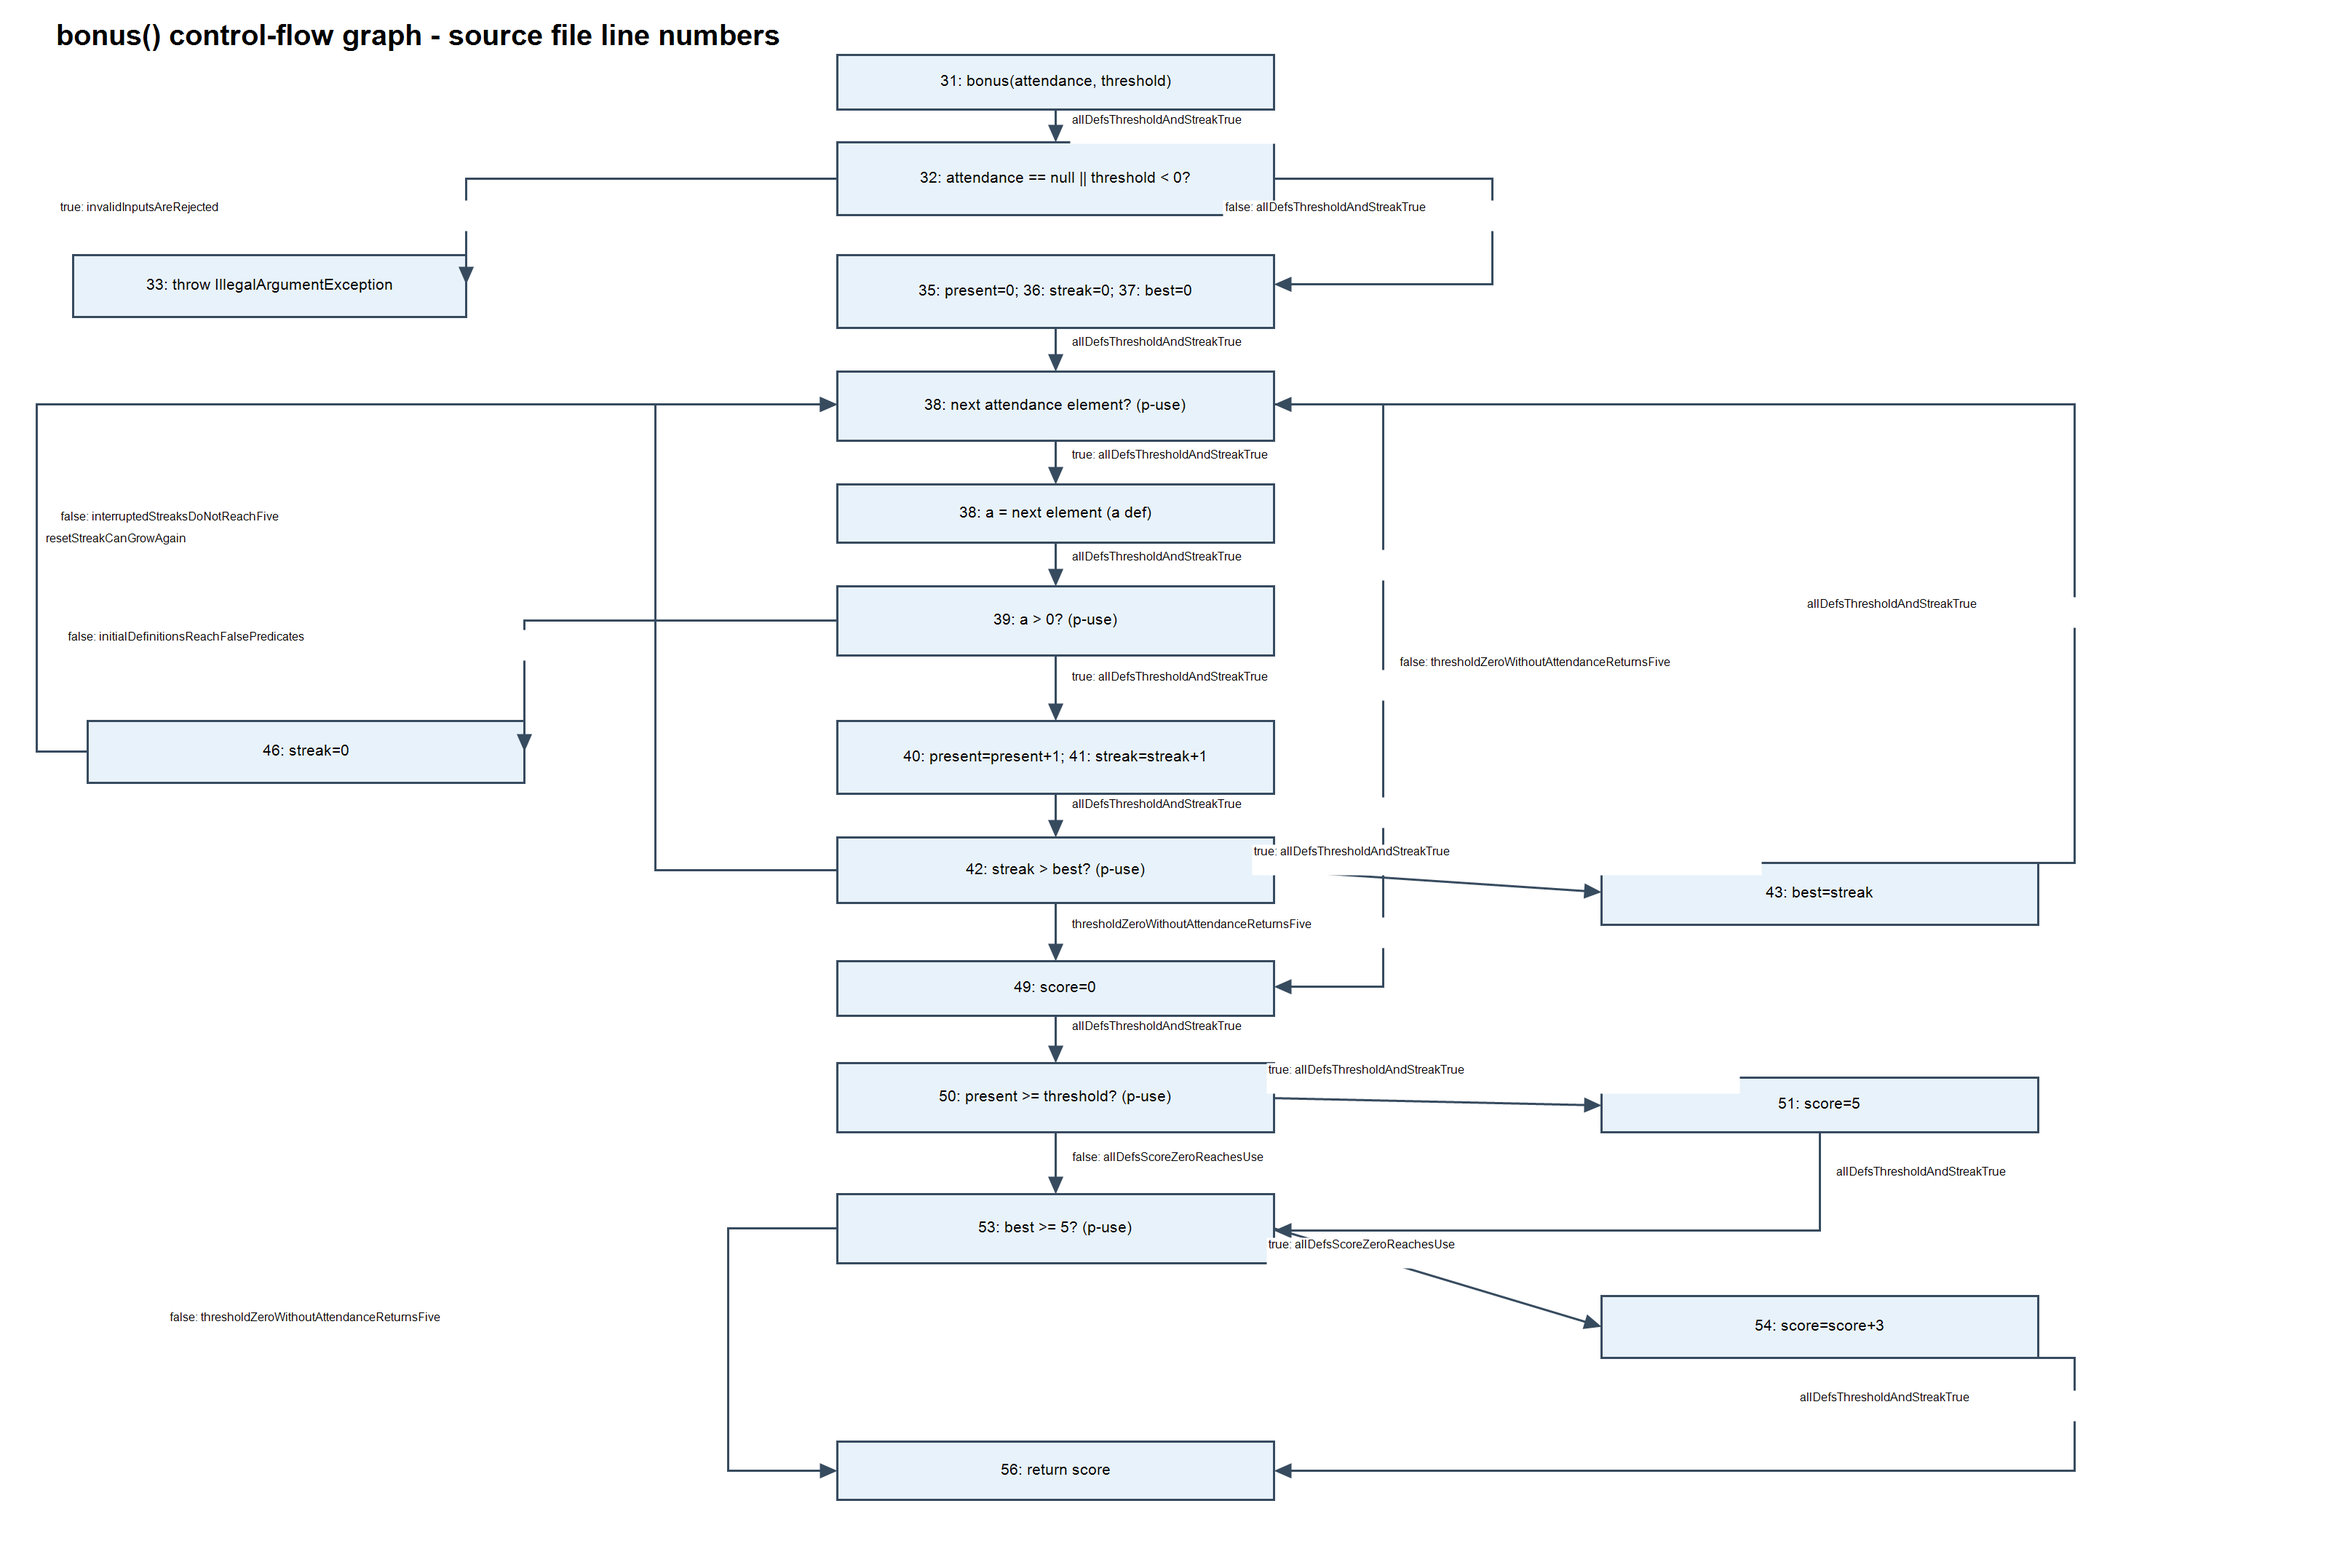
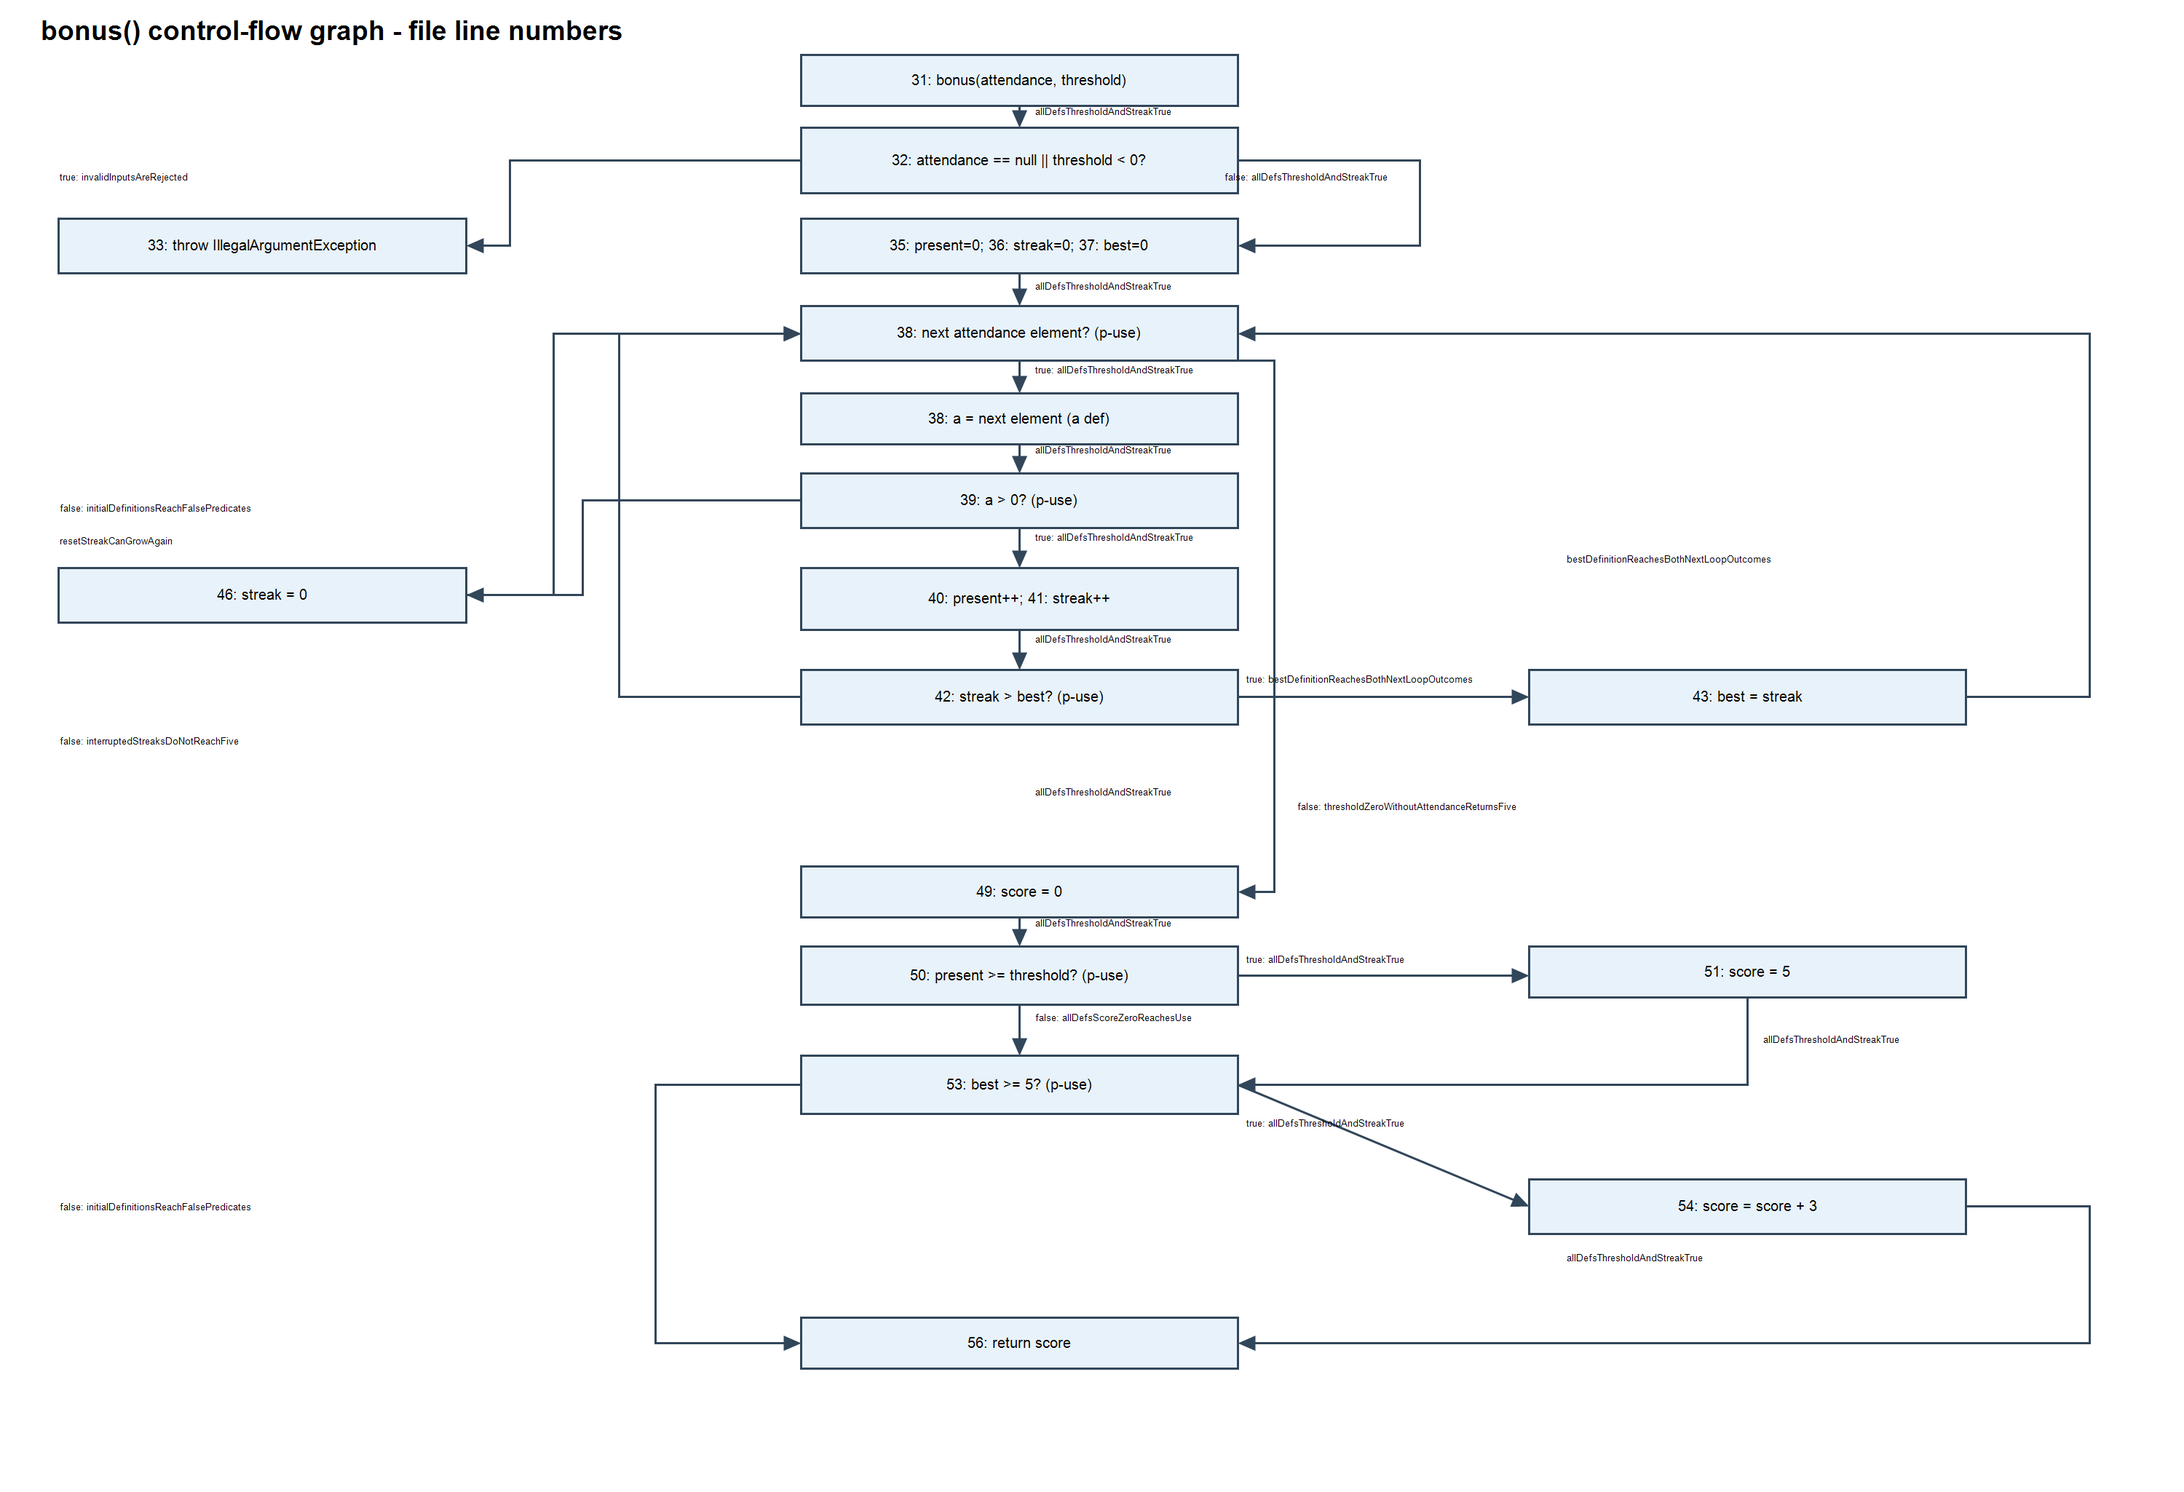
Complete DU pairs and identify student report

diff --git a/src/test/java/mn/edu/must/sqat/BonusTest.java b/src/test/java/mn/edu/must/sqat/BonusTest.java
@@ -60,4 +60,11 @@ class BonusTest {
     void thresholdZeroWithoutAttendanceReturnsFive() {
         assertEquals(5, DataFlowTargets.bonus(new int[] {}, 0));
     }
+
+    @Test
+    @DisplayName("BONUS-09: best@43 reaches line 42 true and false outcomes on later iterations")
+    void bestDefinitionReachesBothNextLoopOutcomes() {
+        assertEquals(0, DataFlowTargets.bonus(new int[] {1, 0, 1, 1, 1}, 5));
+        assertEquals(0, DataFlowTargets.bonus(new int[] {1, 0, 1, 0, 1, 0, 1, 1, 0, 1}, 7));
+    }
 }

diff --git a/src/test/java/mn/edu/must/sqat/GcdTest.java b/src/test/java/mn/edu/must/sqat/GcdTest.java
@@ -14,7 +14,7 @@ class GcdTest {
     }
 
     @Test
-    @DisplayName("GCD-02: x@13 -> 16, y@13 -> 16, x@17 -> 16, y@18 -> 15 for gcd(12, 8)")
+    @DisplayName("GCD-02: x@13 -> 16, y@13/18 -> 16/17, x@17 -> 16/20 for gcd(12, 8)")
     void gcdLoopBodyCoversMutationAndBackEdge() {
         assertEquals(4, DataFlowTargets.gcd(12, 8));
     }
